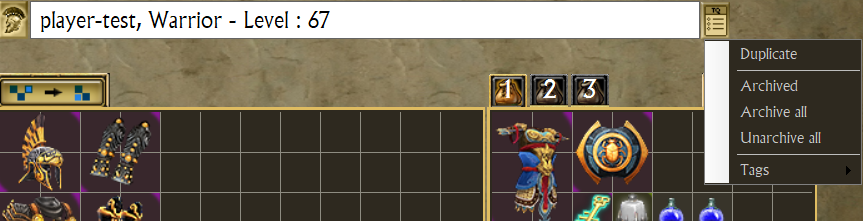
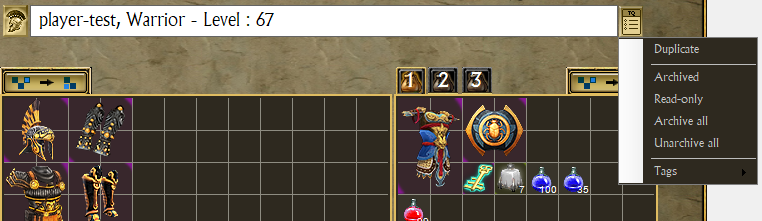
docs(forge): retake the forge pictures with the resized forge
The forge pictures showed the old, wider forge. Retaken on the neutral test
data at 96 DPI and zoom 1: the forge with its callouts, a notification, the
Relax mode preview and a God mode example. FORGE.md says Exit stays shown
while the forge is open and that the forge follows the DPI and the zoom.
The character menu picture now shows the Read-only entry (upstream #268).

diff --git a/documentation/FORGE.md b/documentation/FORGE.md
@@ -26,8 +26,9 @@ You can access the forge from TQVaultAE upper navigation bar.
 Once inside you can drag & drop items from your left vaults.
 An item must come from a bag: one you just created and still hold is refused with "The item must be stored first!".
 
-While the forge is open, it takes the place of the character, stash and second vault panels, the other buttons of the navigation bar are hidden,
-and the "Forge" button reads "Show Vault": it closes the forge like "Cancel" does.
+While the forge is open, it takes the place of the character, stash and second vault panels, the other buttons of the navigation bar
+are hidden except "Exit", and the "Forge" button reads "Show Vault": it closes the forge like "Cancel" does.
+The forge follows the screen DPI and the TQVault zoom, like the rest of the window.
 
 _**Note:** The Forge doesn't move your objects, however, it changes the properties of the base item used._
 
@@ -119,7 +120,7 @@ A prefix or a suffix put in a relic slot becomes a relic of one shard, without c
 
 _**Note:** Here's an example of a useless quest item with offensive properties._
 <br />
-<img src="./forge/forge_ui_godmode.png" width="750" alt="God Mode Example" />
+<img src="./forge/forge_ui_godmode.png" alt="God Mode Example" />
 <br />
 
 #### <a id="Hardcore"></a>*Hardcore*
